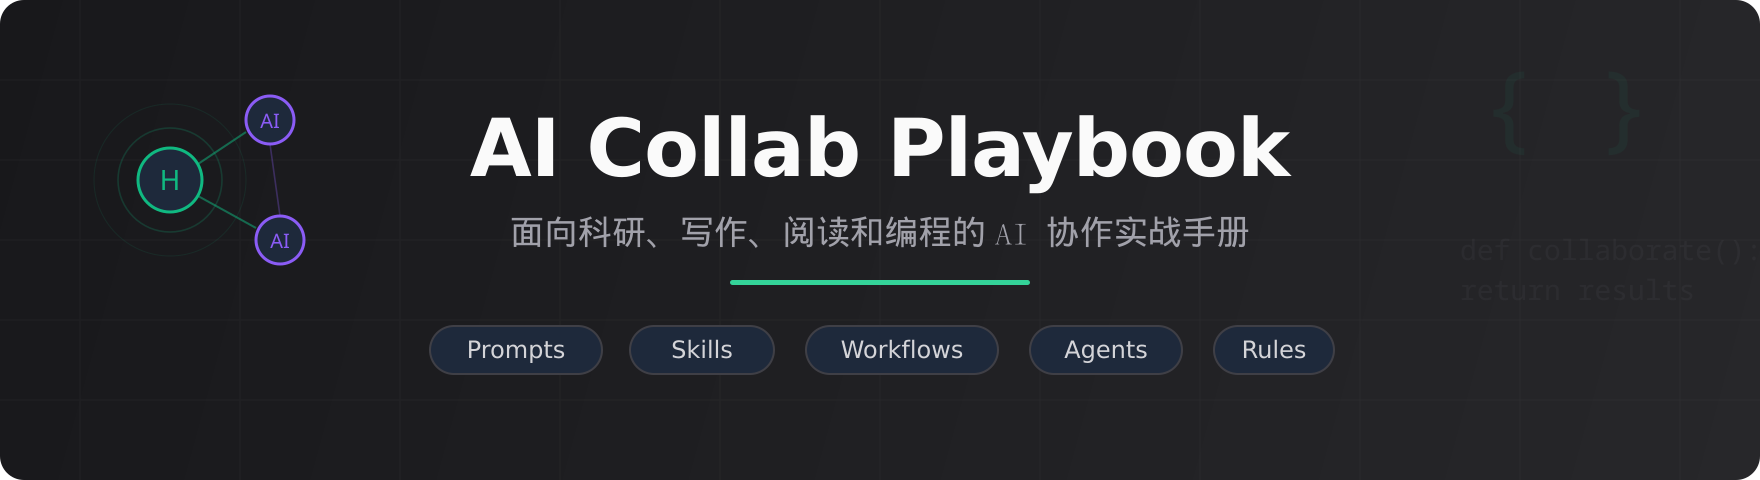
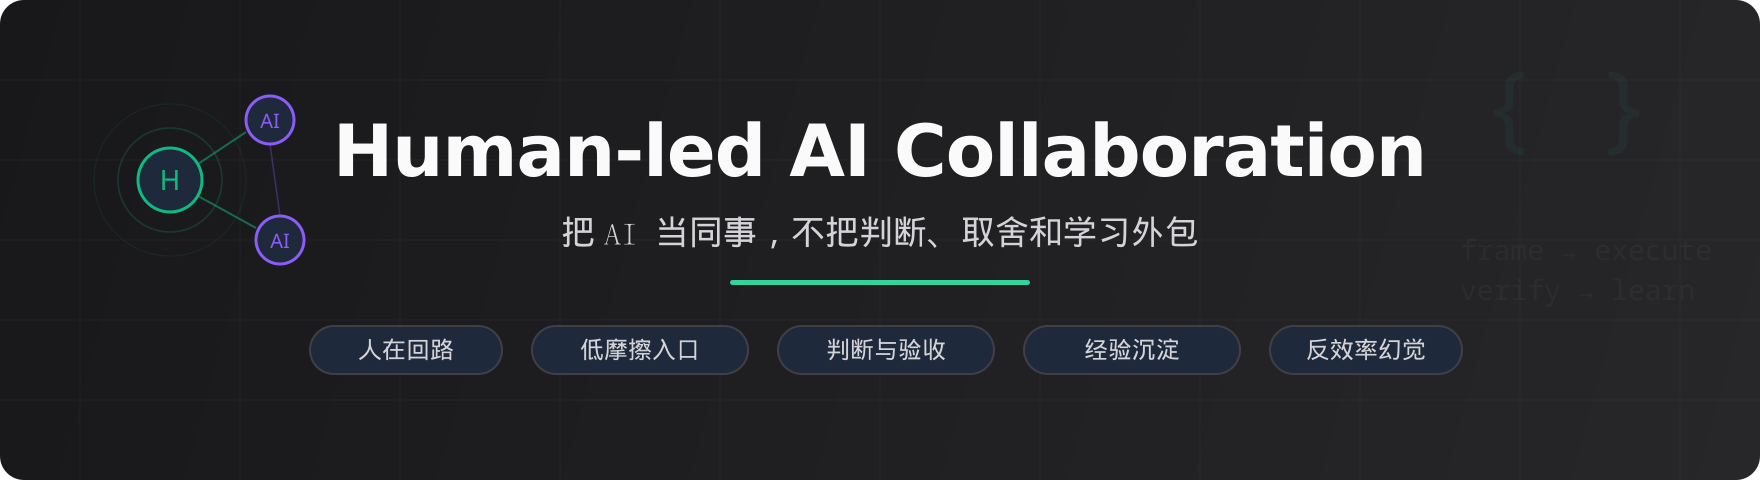
Reframe hero around human-led AI collaboration

Changed region(s): [[0.1875, 0.2188, 0.8125, 0.4062], [0.1562, 0.6562, 0.8125, 0.7812], [0.2812, 0.4375, 0.7188, 0.5312]]

diff --git a/README.md b/README.md
@@ -8,9 +8,9 @@
 
 ---
 
-这是一份我在读博士期间持续更新的 **AI 协作手册**。它不是“装哪些工具”的清单，也不是“怎么写 Prompt”的速成教程，而是记录我如何把 AI 放进真实的学习、科研、写作、编程和日常生活里：什么时候该让 AI 执行，什么时候必须自己判断；什么时候该沉淀成 Skill，什么时候反而应该做减法。
+这是一份我在读博士期间持续更新的 **AI 协作手册**。它不是“装哪些工具”的清单，也不是“怎么写 Prompt”的速成教程。它更想回答的是：当 AI 已经能进入学习、科研、写作、编程和日常生活以后，人应该怎样继续主导问题、判断质量、沉淀经验，并避免把理解能力外包出去。
 
-如果你也在经历这种感觉：AI 工具越来越多，信息越来越吵，效率好像变高了，但自己有时反而更难确认“我到底想清楚了吗”——那这份 playbook 可能会有帮助。
+我的核心立场很简单：**把 AI 当同事，不当工具；但人仍然是主变量。** AI 可以帮你探索、生成、执行，但问题表述、验收标准、必要取舍和最终判断不能交出去。否则效率越高，越可能只是更快地制造一种“我好像在推进”的幻觉。
 
 ## 先读什么
 
@@ -22,12 +22,12 @@
 ## 这份手册在讲什么
 
 ```text
-低摩擦入口      把 AI 放到划词、IM、远程 Agent 和日常材料流里
-上下文优先      先准备材料、目标、偏好和验收标准，再让模型生成
-多模型协作      GPT / Claude / Gemini / Grok / Agent 各取所长
-可视化理解      用图像模型把复杂关系画出来，再反过来检查理解
-人在回路        问题表述、验收标准、必要取舍和最终判断不能外包
-持续复盘        Skill 不是越多越好，工作流也需要定期清理和迭代
+人是主变量      AI 可以放大能力，但不能替代问题意识和判断力
+当同事协作      让 AI 进入真实工作流，而不是停留在一次性问答窗口
+低摩擦入口      把划词、IM、远程 Agent 和知识库接到日常材料流里
+上下文优先      先准备目标、材料、偏好和验收标准，再让模型执行
+经验沉淀        把有效流程固化为 Skill / Workflow，但也要定期做减法
+反效率幻觉      警惕把理解、审美、取舍和学习过程一起外包给 AI
 ```
 
 [![AI 协作框架图](docs/figs/phd-ai-agent-framework.png)](docs/phd-ai-collab.md#code-agent-framework)

diff --git a/README.en.md b/README.en.md
@@ -2,7 +2,7 @@
 
 [中文](README.md) | English
 
-A practical AI collaboration playbook for research, writing, reading, coding, and everyday learning. This is not just a tool list or a prompt cookbook; it documents how I put AI into real workflows while keeping human judgment, acceptance criteria, and reflection in the loop.
+A practical AI collaboration playbook for research, writing, reading, coding, and everyday learning. This is not just a tool list or a prompt cookbook; it is about human-led collaboration: putting AI into real workflows while keeping problem framing, quality judgment, trade-offs, and learning in human hands.
 
 The main article is still the center of the repository. The surrounding rules, prompts, figures, and skill index are here to make the workflow reusable rather than merely inspirational.
 
@@ -19,12 +19,12 @@ The main article is still the center of the repository. The surrounding rules, p
 ## Core Ideas
 
 ```text
-Low-friction entry   Put AI where materials and thoughts already appear
+Human as variable    AI amplifies capability, but does not replace judgment
+Colleague mindset    Put AI into real workflows, not only Q&A windows
+Low-friction entry   Put AI where materials, thoughts, and tasks already appear
 Context first        Prepare goals, materials, preferences, and acceptance criteria
-Multi-model work     Use different models and agents for their strengths
-Visual thinking      Turn complex relations into images, then verify them
-Human in the loop    Do not outsource problem framing or final judgment
-Regular review       Skills and workflows need pruning, not only accumulation
+Reusable practice    Turn useful routines into skills, then prune the noise
+Anti-efficiency fog  Do not outsource understanding, taste, trade-offs, or learning
 ```
 
 [![PhD AI collaboration overview](docs/figs/phd-ai-collab-overview.png)](docs/phd-ai-collab.md)
